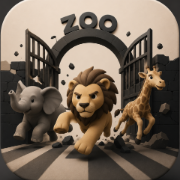
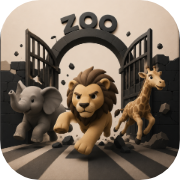
Icône : coins transparents + manifeste mis à jour
- Icônes régénérées avec un masque à coins arrondis (rayon ~22 %) → coins
  transparents (alpha 0 vérifié) sur les 4 tailles.
- Manifeste : purpose "maskable" retiré (incompatible avec des coins
  transparents), on garde "any" ; couleurs (theme/background) alignées sur le
  thème clair « safari » ; description sans mention « pixel art ».
- Service worker : cache v1 → v2 pour rafraîchir icônes/manifeste chez les
  utilisateurs ayant déjà installé l'app.

Claude-Session: https://claude.ai/code/session_01Q5VUHFG91T7VrwsirCYn5x

diff --git a/sw.js b/sw.js
@@ -1,5 +1,5 @@
 /* La Grande Évasion — service worker (offline, standalone PWA) */
-const CACHE = 'evasion-v1';
+const CACHE = 'evasion-v2';
 
 /* Tout ce qu'il faut pour jouer 100 % hors-ligne. */
 const ASSETS = [
